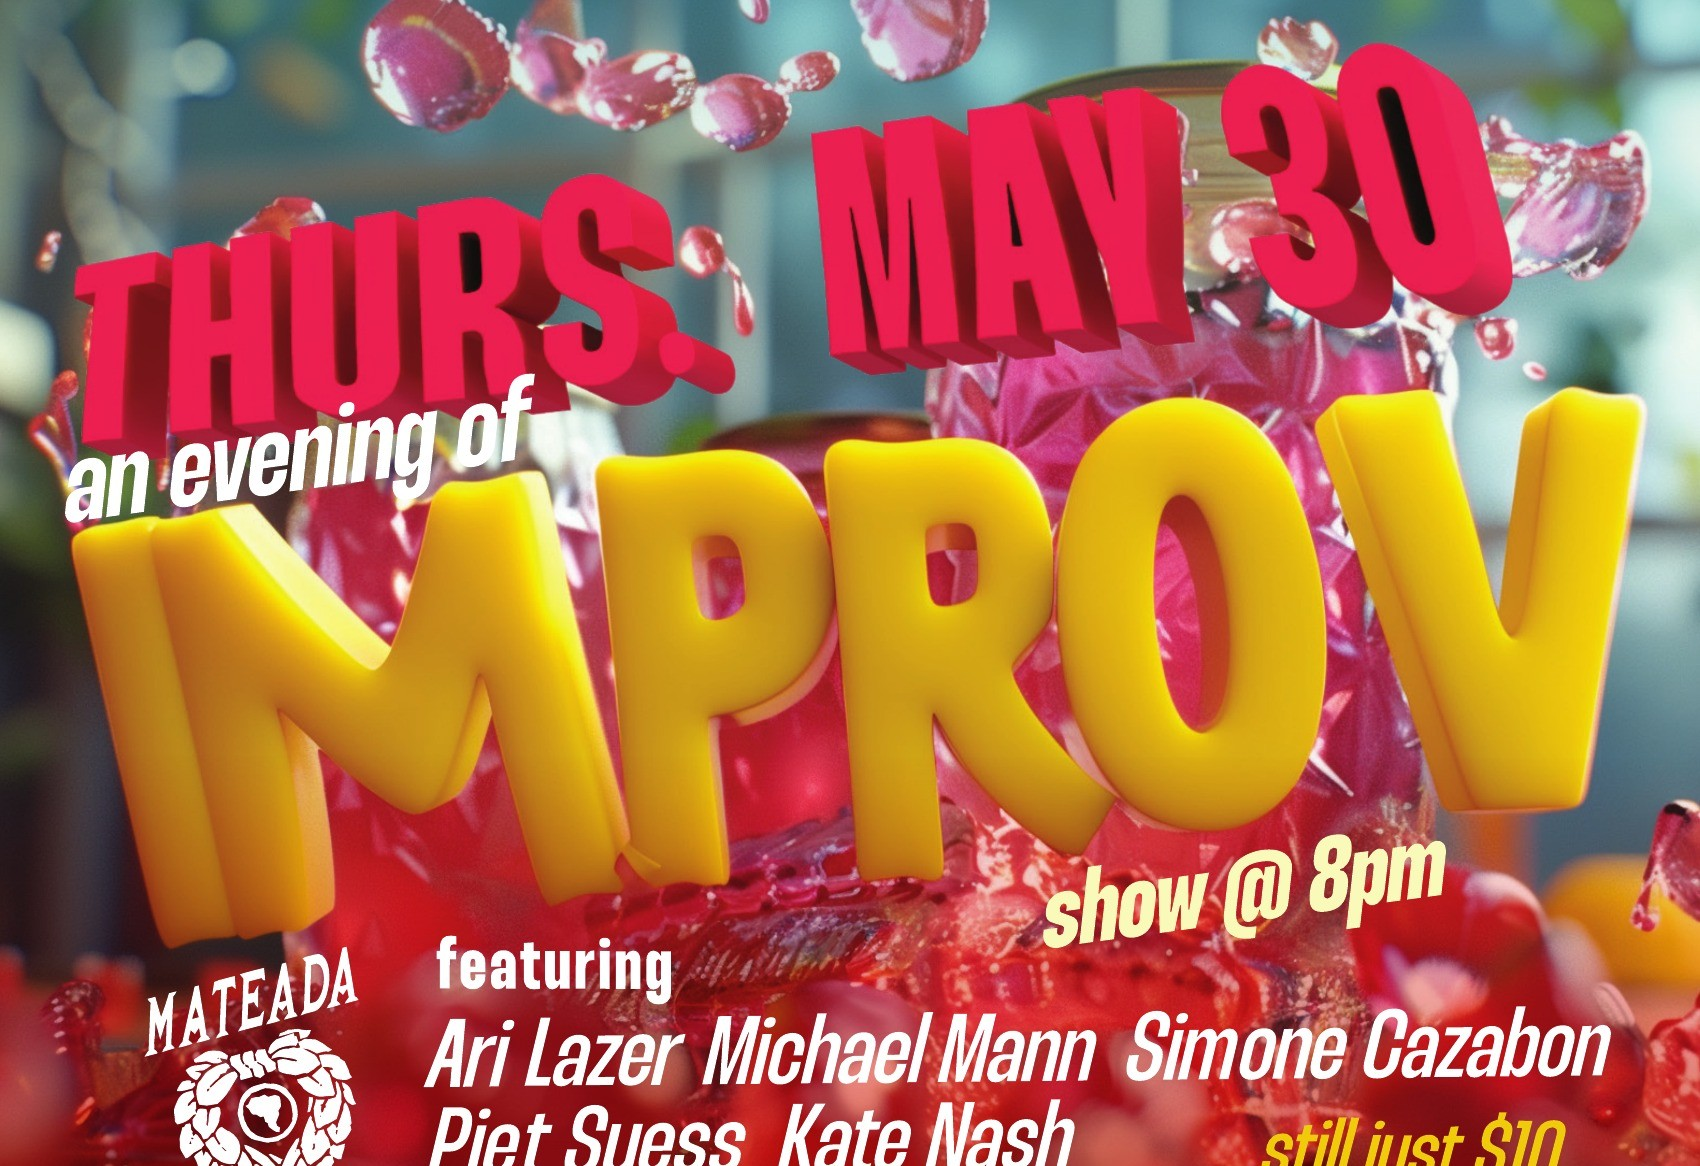
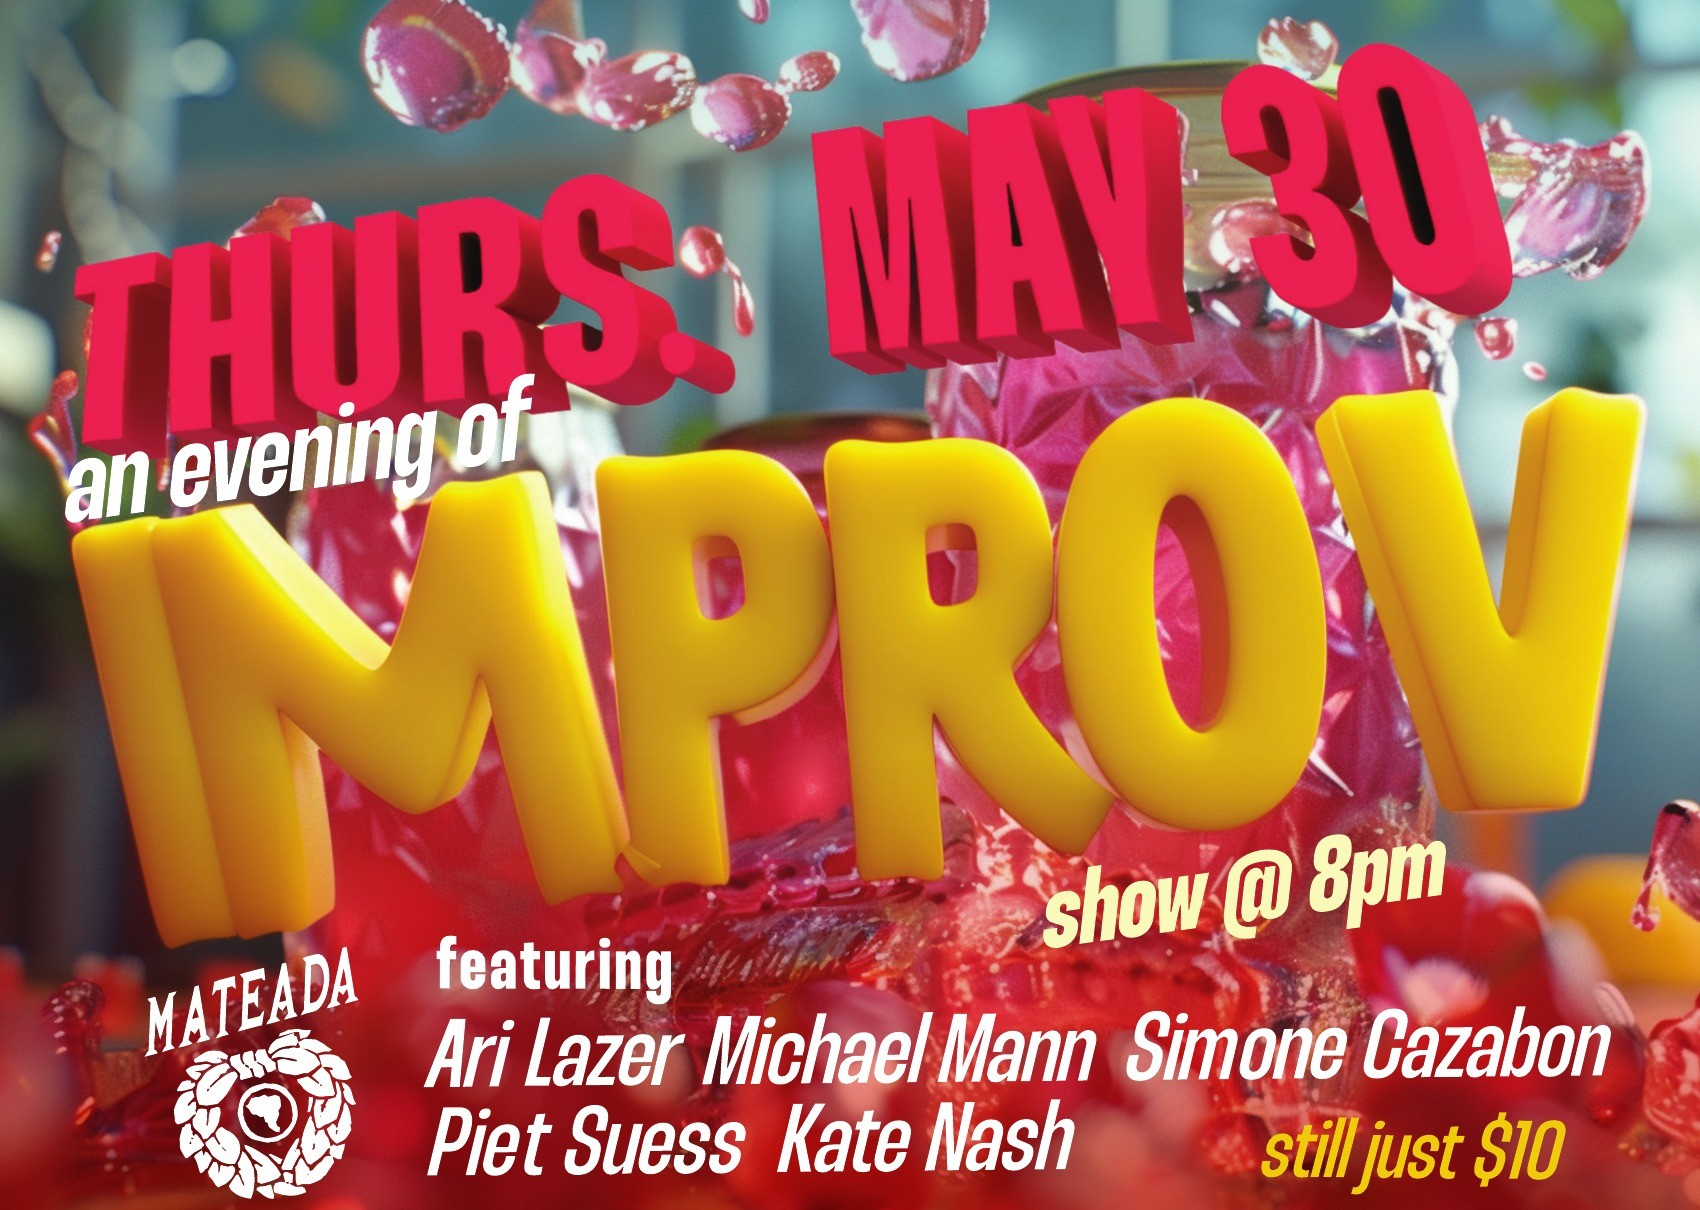
175: add Apr 1 2023, GISS Mar 14 2024 special; rename Jun 27 + May 30 2024

diff --git a/175/index.html b/175/index.html
@@ -627,8 +627,9 @@ const SHOWS = [
   { title:"Serpent",          date:"October 30, 2024",   year:2024, poster:"img/posters/2024-10-30_serpent.jpg" },
   { title:"Space Potatoes",   date:"September 27, 2024", year:2024, poster:"img/posters/2024-09-27_space-potatoes.jpg" },
   { title:"Peppers",          date:"August 22, 2024",    year:2024, poster:"img/posters/2024-08-22_peppers.jpg" },
-  { title:"Wheat",            date:"June 27, 2024",      year:2024, poster:"img/posters/2024-06-27_wheat.jpg" },
-  { title:"Cherries",         date:"May 30, 2024",       year:2024, poster:"img/posters/2024-05-30_may30.jpg" },
+  { title:"Hot Air Balloon Robot Apocalypse", date:"June 27, 2024", year:2024, poster:"img/posters/2024-06-27_wheat.jpg" },
+  { title:"Jelly",            date:"May 30, 2024",       year:2024, poster:"img/posters/2024-05-30_may30.jpg" },
+  { title:"GISS &amp; Friends",date:"March 14, 2024",    year:2024, special:true, poster:"img/posters/2024-03-14_giss.jpg" },
 
   { title:"Sasquatch",        date:"December 15, 2023", year:2023, special:true, poster:"img/posters/2023-12-15_sasquatch.jpg" },
   { title:"Pigeons",          date:"November 23, 2023", year:2023, poster:"img/posters/2023-11-23_pigeons.jpg" },
@@ -639,6 +640,7 @@ const SHOWS = [
   { title:"A Solstice of Improv", date:"June 22, 2023", year:2023, poster:"img/posters/2023-06-22_june22.jpg" },
   { title:"An Evening of Improv", date:"May 25, 2023",  year:2023, poster:"img/posters/2023-05-25_evening.jpg" },
   { title:"An Evening of Improv", date:"April 27, 2023",year:2023, poster:"img/posters/2023-04-27_evening.jpg" },
+  { title:"An Evening of Improv Comedy", date:"April 1, 2023", year:2023, poster:"img/posters/2023-04-01_apr1.png" },
 
   { title:"Holiday Theatre",       date:"December 1, 2022",  year:2022, poster:"img/posters/2022-12-01_theatre.jpg" },
   { title:"An Evening of Theatre", date:"November 3, 2022",  year:2022, poster:"img/posters/2022-11-03_theatre.jpg" },
